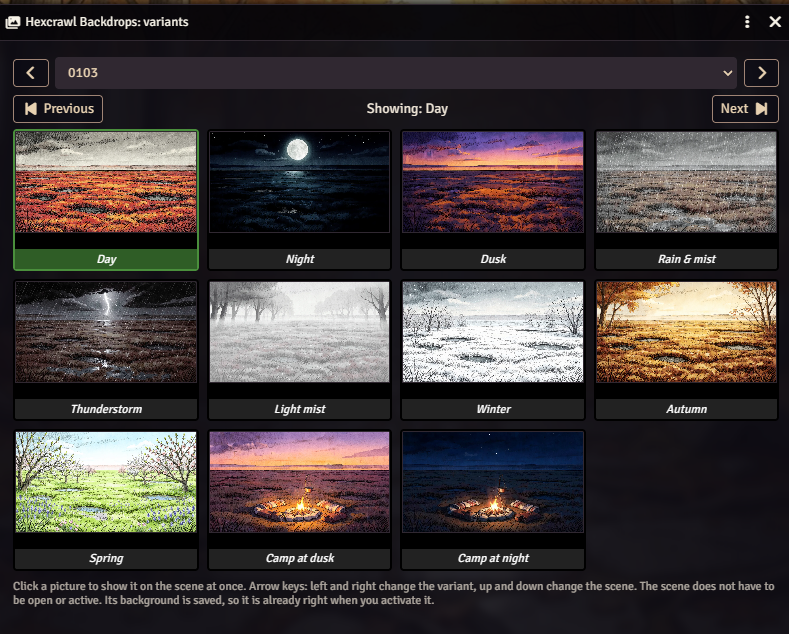
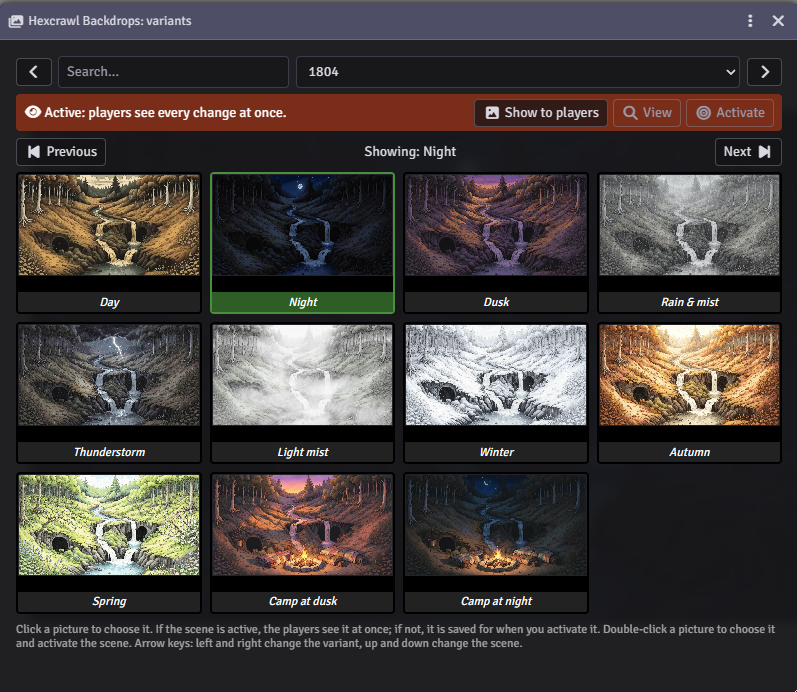
README: screenshot of the 0.3.0 variant window

diff --git a/README.de.md b/README.de.md
@@ -41,7 +41,7 @@ Die Szene muss nicht geöffnet oder aktiv sein. Eine Zeile im Fenster sagt dir, 
 <img src="docs/screenshot-scenes-list.png" alt="Der Knopf Varianten über der Szenenliste" width="300">
 <img src="docs/screenshot-context-menu.png" alt="Rechtsklick-Menü einer Szene mit dem Eintrag Hexcrawl variants" width="170">
 
-<img src="docs/screenshot-window.png" alt="Das Varianten-Fenster mit allen Varianten einer Szene" width="700">
+<img src="docs/screenshot-window.png" alt="Das Varianten-Fenster: Suchfeld, Statuszeile mit den Knöpfen Den Spielern zeigen, Ansehen und Aktivieren, und alle Varianten einer Szene" width="700">
 
 Weitere Wege:
 - **Makro** *Bildvariante…* öffnet dasselbe Fenster, *Bild den Spielern zeigen* teilt das Bild. Es wird beim Import auf deine Makroleiste gelegt (ist die Leiste voll, liegt es im Makro-Ordner *Hexcrawl Backdrops*). Im Ordner *Hexcrawl Backdrops / Bild* liegen außerdem Schnellmakros für *Nächste Variante*, *Vorherige Variante* und jede einzelne Variante. Zieh die, die du brauchst, auf die Leiste.

diff --git a/README.md b/README.md
@@ -41,7 +41,7 @@ The scene does not have to be open or active. A line in the window tells you whi
 <img src="docs/screenshot-scenes-list.png" alt="The Variants button above the Scenes list" width="300">
 <img src="docs/screenshot-context-menu.png" alt="Right-click menu of a scene with the entry Hexcrawl variants" width="170">
 
-<img src="docs/screenshot-window.png" alt="The variant window with all variants of one scene" width="700">
+<img src="docs/screenshot-window.png" alt="The variant window: search field, active state with the buttons Show to players, View and Activate, and all variants of one scene" width="700">
 
 More ways:
 - **Macro** *Backdrop variant…* opens the same window, *Show backdrop to players* shares the picture. It is put on your hotbar when you import (if the bar is full, it is in the macro folder *Hexcrawl Backdrops*). The folder *Hexcrawl Backdrops / Backdrop* also holds quick macros for *Next variant*, *Previous variant* and every single variant. Drag the ones you use to the hotbar.
